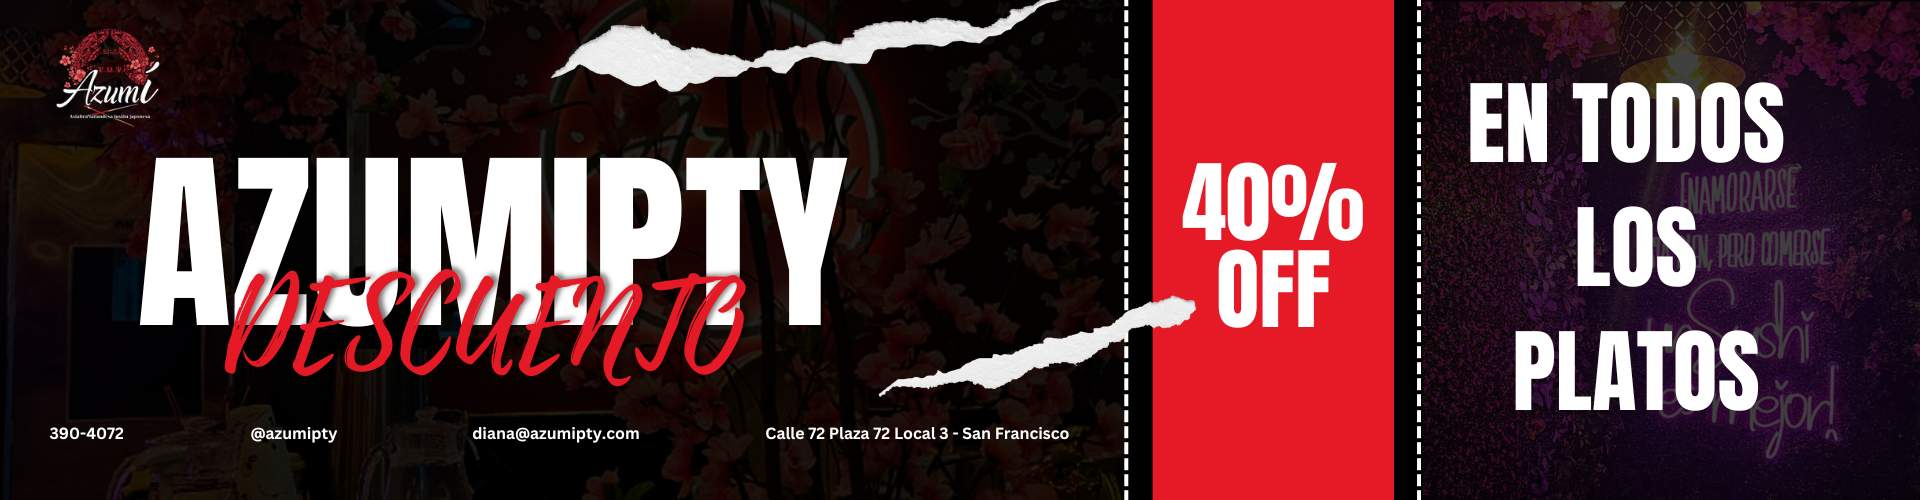
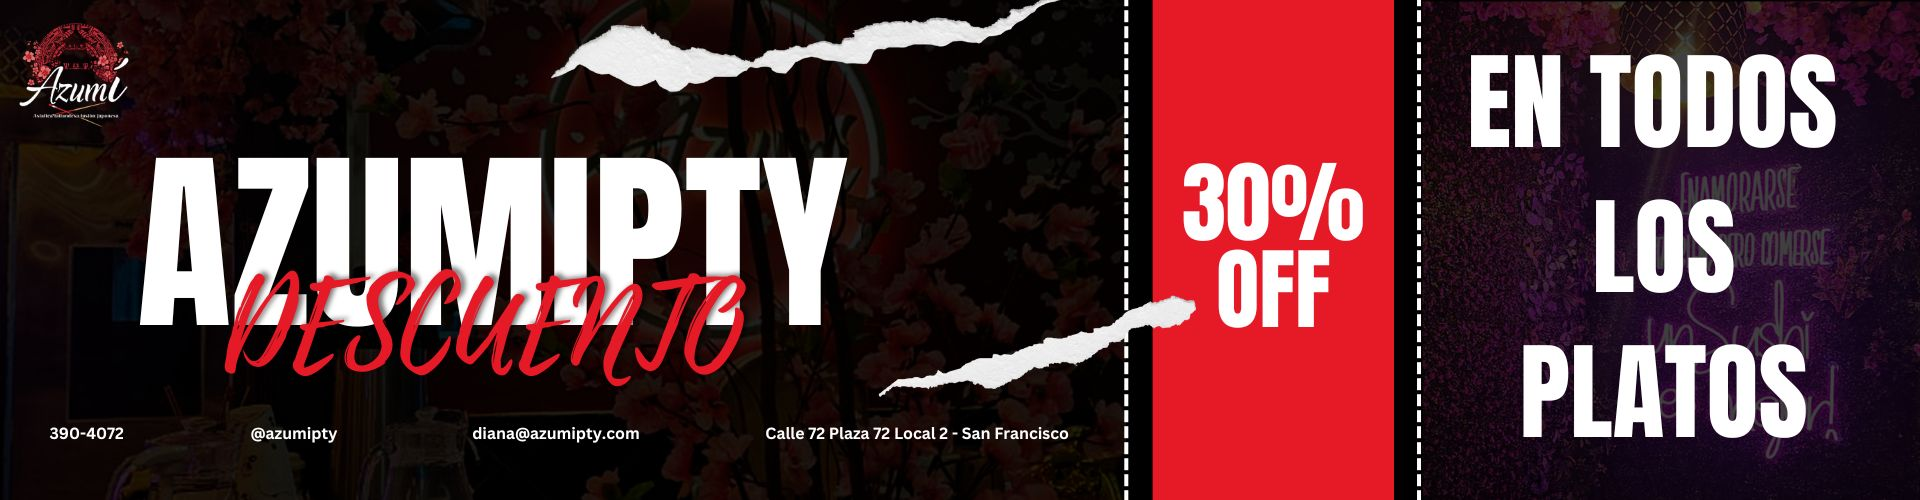
Ajustando nuevos precios

diff --git a/src/pages/CategoryById.jsx b/src/pages/CategoryById.jsx
@@ -18,7 +18,7 @@ export const CategoryById = () => {
     const roundPrice = (price) => {
         // Extraemos el precio base multiplicado
         let basePrice = (price * 1.60)
-        basePrice = basePrice * 0.60;
+        basePrice = basePrice * 0.70;
         const cents = basePrice % 1;
 
         if (cents <= 0.50) {
@@ -94,7 +94,7 @@ export const CategoryById = () => {
                         </SwiperSlide>
                     )}
                     <div className="discount-azumi">
-                        <span style={{background: 'red'}} width='100'> -40%</span>
+                        <span style={{background: 'red'}} width='100'> -30%</span>
                     </div>
                 </Swiper>
             </div>
